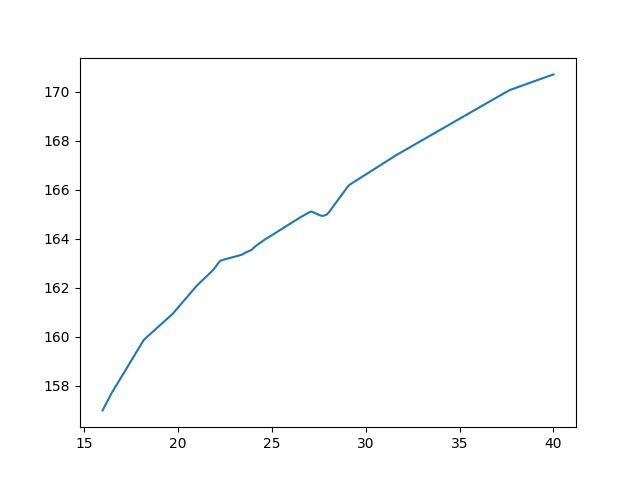
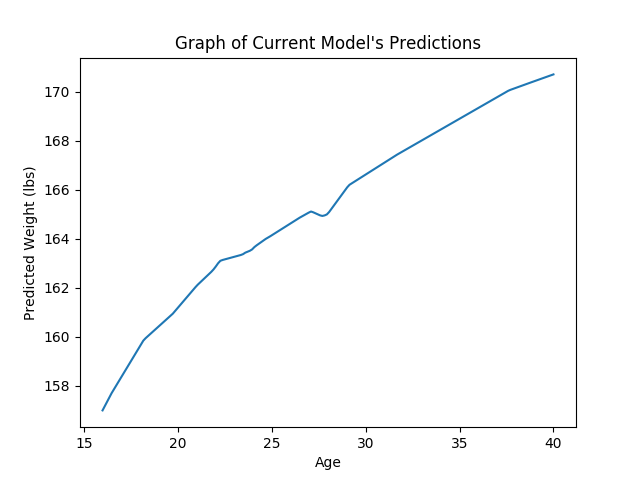
labeled graph

Changed region(s): [[0.2812, 0.0625, 0.75, 0.125], [0.0312, 0.3438, 0.0625, 0.6875], [0.5, 0.9375, 0.5312, 1.0]]

diff --git a/code/prediction.py b/code/prediction.py
@@ -35,6 +35,9 @@ user_predicted_weights = model.predict(data)
 #       % (user_predicted_weight, util.kg_to_lb(user_predicted_weight)))
 
 plt.plot(age_range, [util.kg_to_lb(user_predicted_weights[i]) for i in range(len(user_predicted_weights))])
+plt.xlabel('Age')
+plt.ylabel('Predicted Weight (lbs)')
+plt.title('Graph of Current Model\'s Predictions')
 plt.savefig('images/saved_prediction_graph.png')
 
 plt.show()
